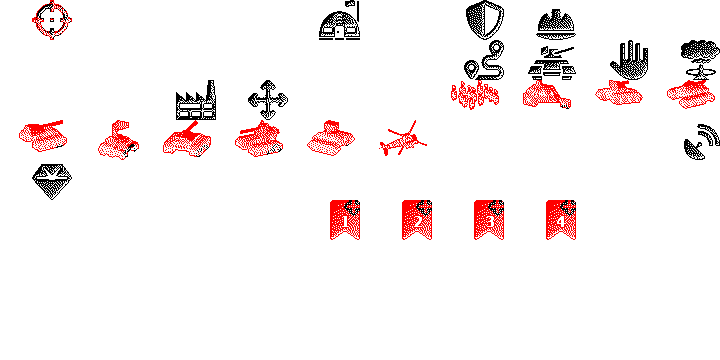
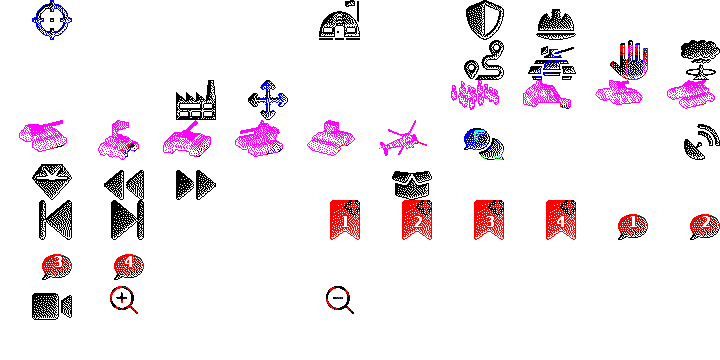
C&C Remastered overlay: the game's own default keys
The keys now follow the game's default table, DATA\XML\
INPUTTRANSLATORCONFIGURATIONS.XML in Data\CONFIG.MEG of the Steam release,
instead of fan-written lists:

- "Select all units on the map" is Shift+A, not Ctrl+A.
- Added Shift+0 to 9 (add the group to the selection, the group's unit
  with a ring), Ctrl+S, Shift+R/S/X, Ctrl+PgUp/PgDn, Ctrl+N, Ctrl+L, . and
  ',', \, Home, PgUp/PgDn, Alt+F, Enter, Shift+Enter, F5 to F8, Ctrl+F5 to
  F8, = and -.
- Every binding names its game command (COMMAND_CNC_SCATTER ...), for a
  later reader of the player's own bindings.

fetch_icons.py renders the new icons; dither_icons() takes a list of stems,
so the committed icons were not redrawn.

Claude-Session: https://claude.ai/code/session_01U989dvs34jt1kH7osB3YDM

diff --git a/polyhost/res/overlay_sources/cnc_remastered/fetch_icons.py b/polyhost/res/overlay_sources/cnc_remastered/fetch_icons.py
@@ -58,6 +58,28 @@ ICONS = {
     # Display
     "graphics": "fa:gem",
     "fullscreen": "fa:expand",
+    # The rest of the game's default keys (INPUTTRANSLATORCONFIGURATIONS.XML)
+    "sidebar": "fa:table-columns",
+    "repair": "fa:wrench",
+    "sell": "fa:dollar-sign",
+    "beacon": "fa:location-dot",
+    "sidebarup": "fa:angles-up",
+    "sidebardown": "fa:angles-down",
+    "quicksave": "fa:floppy-disk",
+    "quickload": "fa:folder-open",
+    "nextunit": "fa:forward-step",
+    "prevunit": "fa:backward-step",
+    "toselection": "fa:video",
+    "zoomin": "fa:magnifying-glass-plus",
+    "zoomout": "fa:magnifying-glass-minus",
+    "deploy": "fa:box-open",
+    "formation": "fa:object-group",
+    "teamchat": "fa:comments",
+    "allchat": "fa:bullhorn",
+    "chatteam": "fa:comment",
+    "chatall": "fa:message",
+    "musicnext": "fa:forward",
+    "musicprev": "fa:backward",
 }
 
 # Control groups 1..0 are Warzone 2100 units rendered by wz_units.py.
@@ -80,7 +102,10 @@ def render(mapping: dict[str, str], out_dir: Path, render_px: int = 256) -> None
 
 # Key area of each icon, from cnc_remastered.yaml; the default is 40 x 40.
 SIZES = {"lastevent": (36, 40), "bookmark": (30, 40), "fullscreen": (30, 40),
-         "tabinfantry": (48, 40), "tabvehicles": (48, 40)}
+         "tabinfantry": (48, 40), "tabvehicles": (48, 40),
+         "chatteam": (30, 40), "chatall": (30, 40)}
+NUMBERED = {"bookmark", "chatteam", "chatall"}   # stamped 1..4 for F1..F4 / F5..F8
+MARK = 13                          # size of a group's modifier mark, px (as in the Generals set)
 MIRROR = {"tabinfantry"}           # the barracks' flag pole on the right, facing like the units
 
 
@@ -120,12 +145,13 @@ def _save_mask(mask, path: Path) -> None:
     Image.fromarray(rgba, "RGBA").save(path)
 
 
-def dither_icons(out: Path) -> None:
-    """Every key icon in the style of the units: relief, dither, lit outline,
-    drawn at exactly its key area so the generator places it 1:1."""
+def dither_icons(out: Path, stems=None) -> None:
+    """Every key icon (or only `stems`) in the style of the units: relief,
+    dither, lit outline, drawn at exactly its key area so the generator places
+    it 1:1."""
     import numpy as np
     from PIL import Image
-    for stem in ICONS:
+    for stem in stems or ICONS:
         size = SIZES.get(stem, (40, 40))
         # Re-render the glyph large so the relief has room for its slope.
         big = Image.open(out / f"{stem}.png").convert("RGBA").getchannel("A")
@@ -138,12 +164,26 @@ def dither_icons(out: Path) -> None:
         canvas = np.zeros((size[1], size[0]), bool)
         canvas[size[1] - m.shape[0]:, size[0] - m.shape[1]:] = m
         _save_mask(canvas, out / f"{stem}.png")
-        if stem == "bookmark":
+        if stem in NUMBERED:
             for n in "1234":
                 numbered = _stamp(canvas, n)
-                _save_mask(numbered, out / f"bookmark{n}.png")
-                _save_mask(wz_units._with_plus(numbered, top=True), out / f"bookmarkset{n}.png")
-    print(f"  {len(ICONS)} key icons dithered (+ bookmark1..4, bookmarkset1..4)")
+                _save_mask(numbered, out / f"{stem}{n}.png")
+                if stem == "bookmark":
+                    _save_mask(wz_units._with_plus(numbered, top=True), out / f"bookmarkset{n}.png")
+    print(f"  {len(stems or ICONS)} key icons dithered (+ the numbered ones)")
+
+
+def groups_add(out: Path) -> None:
+    """groupadd<N> (Shift+digit: add the group to the selection): the group's
+    unit with a ring mark, as in the Generals and StarCraft II sets."""
+    import numpy as np
+    from PIL import Image
+
+    from polyhost.services.game_assets import dither
+    for d in "1234567890":
+        g = np.asarray(Image.open(out / f"group{d}.png").convert("RGBA").getchannel("A")) > 127
+        _save_mask(dither.with_mark(g, "ring", MARK), out / f"groupadd{d}.png")
+    print("  groupadd0..9")
 
 
 # DejaVu Sans Bold (Bitstream Vera licence), from matplotlib v3.9.2's bundled copy.
@@ -263,6 +303,7 @@ def main() -> int:
         aoe2.trim(out, stem)
     dither_icons(out)
     wz_units.main(out)
+    groups_add(out)
     program(out)
     print(f"Wrote icons to {out}")
     return 0

diff --git a/tests/res/cnc_remastered_keys_test.py b/tests/res/cnc_remastered_keys_test.py
@@ -1,0 +1,57 @@
+"""The C&C Remastered overlay's keys against the game's own default table
+(DATA\\XML\\INPUTTRANSLATORCONFIGURATIONS.XML in Data\\CONFIG.MEG of the Steam
+release, read 2026-11-15). The archive may not be committed; the defaults
+below were copied from it, and every one of the 78 named bindings matched it
+when this test was written."""
+import unittest
+
+from polyhost.services.game_assets import build
+
+SPEC = build.RES / "overlay_sources" / "cnc_remastered" / "cnc_remastered.yaml"
+
+DEFAULTS = {
+    "COMMAND_CNC_STRUCTURES_TAB": "W", "COMMAND_CNC_SIDEBAR_TOGGLE": "CTRL+S",
+    "COMMAND_CNC_REPAIR_TOGGLE": "SHIFT+R", "COMMAND_CNC_SELL_TOGGLE": "SHIFT+S",
+    "COMMAND_CNC_TOGGLE_BEACON_MODE": "SHIFT+X", "COMMAND_CNC_SIDEBAR_SCROLL_UP": "CTRL+PGUP",
+    "COMMAND_CNC_QUICK_SAVE": "CTRL+N", "COMMAND_CNC_QUICK_LOAD": "CTRL+L",
+    "COMMAND_CNC_SCATTER": "X", "COMMAND_CNC_NEXT_UNIT": "DOT", "COMMAND_CNC_PREVIOUS_UNIT": "COMMA",
+    "COMMAND_CNC_SELECT_ALL_ON_SCREEN": "A", "COMMAND_CNC_SELECT_ALL_IN_WORLD": "SHIFT+A",
+    "COMMAND_CNC_CAMERA_TO_SELECTION": "HOME", "COMMAND_CNC_FORMATION_TOGGLE": "ALT+F",
+    "COMMAND_CNC_DEPLOY_SELECTED_MCV": "BACKSLASH", "COMMAND_CAMERA_ZOOM_OUT": "PGDN",
+    "COMMAND_GROUP_7_ADD_TO_SELECTED_UNITS": "SHIFT+7", "COMMAND_GROUP_0_ASSIGN": "CTRL+0",
+    "COMMAND_BEGIN_CHAT": "SHIFT+ENTER", "COMMAND_CNC_SEND_ALL_PRESET_MESSAGE_4": "CTRL+F8",
+    "COMMAND_CNC_SEND_TEAM_PRESET_MESSAGE_1": "F5", "COMMAND_CNC_SET_MAP_LOCATION_BOOKMARK_2": "CTRL+F2",
+    "COMMAND_MUSIC_NEXT_TRACK": "EQUAL", "COMMAND_CNC_LEGACY_RENDERING_TOGGLE": "SPACE",
+}
+
+
+def token(b):
+    return build.key_token("+".join([*map(str, b.get("mods") or []), str(b["key"])]))
+
+
+class CncRemasteredKeysTest(unittest.TestCase):
+
+    def setUp(self):
+        self.bindings = build.bindings(build.load_spec(SPEC))
+
+    def test_known_defaults(self):
+        got = {b["command"]: token(b) for b in self.bindings if "command" in b}
+        for command, key in DEFAULTS.items():
+            self.assertEqual(got.get(command), build.key_token(key), command)
+
+    def test_every_key_but_alt_enter_names_its_command(self):
+        unnamed = [token(b) for b in self.bindings if "command" not in b]
+        self.assertEqual(unnamed, [build.key_token("ALT+ENTER")])
+
+    def test_no_key_is_drawn_twice(self):
+        keys = [token(b) for b in self.bindings]
+        self.assertEqual(len(keys), len(set(keys)))
+
+    def test_every_group_icon_has_its_game_art_recipe(self):
+        recipes = build.recipes(build.load_spec(SPEC), "gdi")
+        for d in "1234567890":
+            self.assertEqual(recipes[f"groupadd{d}"], {"mark": "ring", "of": f"group{d}"})
+
+
+if __name__ == "__main__":
+    unittest.main()

diff --git a/polyhost/res/overlay_sources/cnc_remastered/SOURCES.md b/polyhost/res/overlay_sources/cnc_remastered/SOURCES.md
@@ -14,26 +14,27 @@ as for Age of Empires II (`steam_app_813780`).
 
 ## Shortcut reference
 
-The keys are the Remastered Collection defaults. Tiberian Dawn and Red Alert
-share them.
+The keys are the game's own defaults, read from
+`DATA\XML\INPUTTRANSLATORCONFIGURATIONS.XML` in `Data\CONFIG.MEG` of the
+Steam release (read 2026-11-15). Its `KeyConfigurationTable PLAYER_COMMANDS`
+lists the commands the key-binding editor offers; the input contexts give each
+one's default key. Every binding names that command (`command:`), for a later
+reader of the player's own bindings. Tiberian Dawn and Red Alert share the
+keys; Q and Alt+F work in Red Alert only. A screenshot of the in-game editor
+(2026-11-15) shows the same keys.
 
-- [defkey.com: Command & Conquer Remastered Collection controls](https://defkey.com/cc-remastered-collection-shortcuts)
-  lists every bound key: groups, Tab, Space, H, W/E/R/T, A, Ctrl+A, G, S, X,
-  Q (Red Alert only), F1 to F4 and Ctrl+F1 to Ctrl+F4, Alt+Enter.
-- The Steam guide [C&C Remastered Basic Tips & Tricks](https://steamcommunity.com/sharedfiles/filedetails/?id=2142348365)
-  by Momo lists the same groups, Tab, Space, H, W/E/R/T, A, Ctrl+A, G, S and X.
-- The game's GPL source ([electronicarts/CnC_Remastered_Collection](https://github.com/electronicarts/CnC_Remastered_Collection),
-  `REDALERT/OPTIONS.CPP`) confirms X, S, G and Q (`KeyQueueMove1`).
-
-Both lists are fan-written. Neither names which tab W, E, R and T select.
-The labels follow the sidebar order (structures, infantry, vehicles, special
-weapons) and were not checked in the game.
+Alt+Enter (full screen) is not in the table: the window handles it, not a game
+command. It is kept from defkey.com's list.
 
 ## Left out
 
 - Mouse shortcuts (Ctrl+click force attack, Alt+click force move, Ctrl+Alt+click
   guard a target): they have no key.
-- Letters whose action depends on the selection or the game.
+- Letters whose action depends on the selection or the game: the build keys
+  of each sidebar tab (`COMMAND_TD_GDI_BUILD_*`, D, P, M ...).
+- Shift held (add or remove 5 units in the build queue) and the arrow keys
+  (camera scroll): modifier keys and keys that keep their legends.
+- The four empty mod command slots (`GAME_COMMAND_CNC_MOD_COMMAND_1` to 4).
 
 ## Placement
 
@@ -44,7 +45,8 @@ then draws the overlay (`copy_overlay_to_buffer()` in the firmware's
 | Keys | Area |
 |---|---|
 | Letters, Space | 40×40 at the right edge |
-| Tab, F1 to F4, Alt+Enter | 30×40 at the right edge |
+| Tab | 36×40 at the right edge |
+| F1 to F8, Alt+Enter | 30×40 at the right edge |
 | Digits (control groups) | 48×40 drawn 1:1, 5 px from the right edge (`margin: 5`) |
 | ESC | the whole 72×40 cell, without the legend |
 
@@ -111,6 +113,15 @@ shading and the same dither and outline as the units, at its exact key area.
 | `bookmark*.png` | bookmark | Font Awesome Free 6.5.2, CC BY 4.0 |
 | `graphics.png` | gem | Font Awesome Free 6.5.2, CC BY 4.0 |
 | `fullscreen.png` | expand | Font Awesome Free 6.5.2, CC BY 4.0 |
+| `sidebar.png`, `repair.png`, `sell.png`, `beacon.png` | table-columns, wrench, dollar-sign, location-dot | Font Awesome Free 6.5.2, CC BY 4.0 |
+| `sidebarup.png`, `sidebardown.png` | angles-up, angles-down | Font Awesome Free 6.5.2, CC BY 4.0 |
+| `quicksave.png`, `quickload.png` | floppy-disk, folder-open | Font Awesome Free 6.5.2, CC BY 4.0 |
+| `nextunit.png`, `prevunit.png`, `musicnext.png`, `musicprev.png` | forward-step, backward-step, forward, backward | Font Awesome Free 6.5.2, CC BY 4.0 |
+| `toselection.png`, `zoomin.png`, `zoomout.png` | video, magnifying-glass-plus, magnifying-glass-minus | Font Awesome Free 6.5.2, CC BY 4.0 |
+| `deploy.png`, `formation.png` | box-open, object-group | Font Awesome Free 6.5.2, CC BY 4.0 |
+| `teamchat.png`, `allchat.png` | comments, bullhorn | Font Awesome Free 6.5.2, CC BY 4.0 |
+| `chatteam*.png`, `chatall*.png` | comment, message, with the digit 1 to 4 | Font Awesome Free 6.5.2, CC BY 4.0 |
+| `groupadd*.png` | the group's unit with a ring mark (`dither.with_mark`) | as the unit |
 
 `bookmark<N>.png` cuts the digit out of the bookmark in DejaVu Sans Bold
 (Bitstream Vera licence), 11 px high, with a lit 1 px rim. `bookmarkset<N>.png`
@@ -121,7 +132,7 @@ adds the plus.
 | Font | Used for | Licence |
 |---|---|---|
 | [Black Ops One](https://github.com/google/fonts/tree/main/ofl/blackopsone) | the ESC mark | SIL OFL 1.1 |
-| DejaVu Sans Bold, the copy bundled with matplotlib v3.9.2 (pinned commit) | the bookmark digits | Bitstream Vera |
+| DejaVu Sans Bold, the copy bundled with matplotlib v3.9.2 (pinned commit) | the bookmark and chat digits | Bitstream Vera |
 
 ## Art from the user's game files
 
@@ -138,7 +149,7 @@ Nothing is read until the overlay is first sent.
 
 | Keys | From the game |
 |---|---|
-| 1 to 0, Ctrl+1 to Ctrl+0 | map sprites of the chosen faction, with the same plus |
+| 1 to 0, Ctrl+1 to Ctrl+0, Shift+1 to Shift+0 | map sprites of the chosen faction, with the same plus or ring |
 | W, E, R, H, Tab | building sprites |
 | S, X, G, A, Q, T | mouse cursors (only when `CCLOCAL.MIX` is present) |
 
